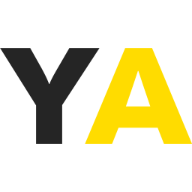
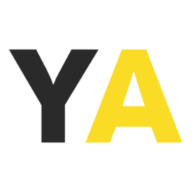
Squashed commit of the following:
commit 2201afbe3ed39fdfb8c910bbfddccd491a525cbe
Author: weraleto <52561921+weraleto@users.noreply.github.com>
Date:   Sat May 21 17:25:27 2022 +0300

    changed favicon

commit e9027449ec376aa8856eac22f71e3697e26a1894
Author: weraleto <52561921+weraleto@users.noreply.github.com>
Date:   Sat May 21 17:24:59 2022 +0300

    added error layout

Changed region(s): [[0.4375, 0.25, 1.0, 0.75], [0.0, 0.25, 0.5312, 0.75]]

diff --git a/layouts/error.vue b/layouts/error.vue
@@ -1,0 +1,60 @@
+<template>
+  <div>
+    <main class="error-main">
+        <div class="container error-main__container">
+            <div class="title-ladder">
+                <h1 class="title1 grid-layout">
+                    <span>Мы не можем</span>
+                    <span>найти страницу</span>
+                </h1>
+            </div>
+            <Infoblock
+                text="Возможно, ее больше не существует на сайте, или адрес указан неправильно. Вы можете попробовать вернуться обратно."
+                button_type="large outlined"
+                button_text="На главную"
+                :is_button_link="true"
+                button_page_link="/"
+             />
+        </div>
+    </main>
+  </div>
+</template>
+
+<script>
+export default {
+    name: 'Error',
+    head: {
+        title: 'Ошибка'
+    },
+
+}
+</script>
+
+<style lang="scss" scoped>
+
+@import '@/assets/scss/_variables.scss';
+
+.error-main {
+    margin-top: 72px;
+    min-height: 650px;
+    background: url('~assets/img/404_bg.jpg') no-repeat center center;
+    background-size: cover;
+    padding-top: 100px;
+    padding-bottom: 137px;
+
+    &__container {
+        width: 100%;
+    }
+
+    @media screen and (max-width: $--screen-md-min) {
+        margin-top: 50px;
+        padding-top: 70px;
+    }
+
+    @media screen and (max-width: $--screen-sm-min) {
+        padding-top: 30px;
+        min-height: 80vh;
+        padding-bottom: 10vh;
+    }
+}
+</style>

diff --git a/components/infoblock.vue b/components/infoblock.vue
@@ -6,7 +6,7 @@
     </div>
     <a href="" 
         v-if="button_type" 
-        @click.prevent="$store.commit('setShowModal', {key: 'showApplyForm', val: true})" 
+        @click.prevent="dispatchButtonAction" 
         class="infoblock__button btn large" 
         :class="button_type"
     >{{button_text}}</a>
@@ -16,9 +16,26 @@
 <script>
 export default {
     props: {
+        is_button_link: {
+            type: Boolean,
+            default: false
+        },
+        button_page_link: {
+            type: String,
+            default: null
+        },
         button_type: String,
         button_text: String,
         text: String
+    },
+    methods: {
+        dispatchButtonAction() {
+            if (this.is_button_link) {
+                this.$router.push(this.button_page_link)
+                return
+            }
+            this.$store.commit('setShowModal', {key: 'showApplyForm', val: true})
+        }
     }
 
 }
@@ -70,6 +87,8 @@ export default {
     width: max-content;
     padding: 0 36px;
     margin-top: 30px;
+    grid-row: 2/3;
+    grid-column: 3/10;
 
     @media screen and (max-width: $--screen-sm-min) {
         margin-left: 67.5px;

diff --git a/nuxt.config.js b/nuxt.config.js
@@ -41,6 +41,10 @@ export default {
     '~/api/contact.js'
   ],
 
+  generate: {
+    fallback: '404.html'
+  },
+
 
   server: {
     port: 8880,
